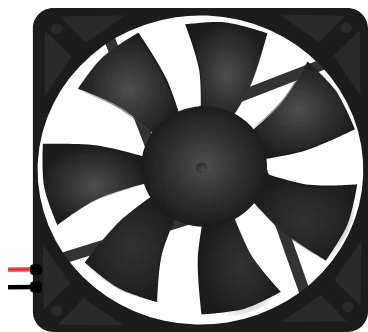
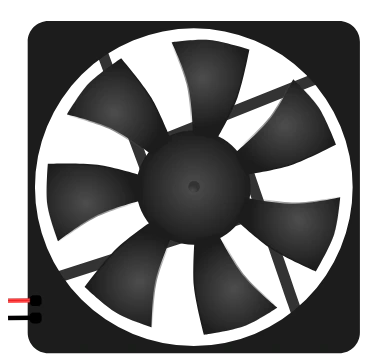
v2026.7.231 : le ventilateur tourne enfin rond
- nouveau dessin de Frank (230x220), broches + et - recalees
- l'animation CSS ecrasait le transform propre du groupe des pales
  (40 px de saut au demarrage) : elle passe sur une enveloppe neutre
- rotation autour du moyeu, axe mesure comme centre du plus petit
  cercle contenant les contours (0,3 px des cercles du moyeu)

diff --git a/todo.md b/todo.md
@@ -1,9 +1,13 @@
 # À faire
-1. Mon ventilo ne tournait pas rond. Je l'ai retouché. §Corrige à partir du nouveau. ~~Mets à jour les tests pour ajouter d'une part un transistor PN2222 et d'autre part un relais omron.~~ (fait en v2026.7.230)
 1. Je veux que les condensateurs apparaissent dans la bibliothèque uniquement comme 1 condensateur avec le choix entre les 3 dans les propriétés (ça marche déjà) mais on n'en garde qu'un dans la bibliothèque. Le texte du condensateur film  doit être plus bas. La taille du texte dopit s'adapter pour les 3 en fonctions de la valeur. Le plus (croix) du tantal est trop gros et il doit être plus bas pré de la patte de droite. Tu a enlevé les dégradés des pattes des 2 condo polarisés résutat on ne les vois pas sur la grille. L'exponentielle de charge est discontinue (test sur ton exemple avec 10 µF). Dans ton example tu présuppose RPullup = 40k alors que la doc dis entre 50 et 80 k donc met 65k. Fait aussi unexemple en décharge.
 1. 
 # En réserve
 1. ⏳ Moteur de simulation dans un **Web Worker** (rendu et calcul sur deux fils). Chiffré : ~3 lots. Points durs relevés : `sampleSevenSegLatches` tourne sur chaque front GPIO et devrait déménager dans le worker ; états partagés par référence (`pressed` du clavier, capteurs ultrason) à convertir en messages ; pas de `SharedArrayBuffer` (webview non *cross-origin isolated*) donc lecture par instantané de broches ; CSP à ouvrir (`worker-src`). **Rendement chiffré : +7 % seulement** (v2026.7.223 — le moteur détient déjà 92 % du fil, le rendu 1 % et le navigateur 7 %). À ne rouvrir que si le rendu redevient gourmand sur un schéma chargé.
+
+# v2026.7.231 — le ventilateur tourne enfin rond
+1. ✅ **Nouveau dessin de Frank repris** (`Composants.svg` → `externe/ventilo.svg`, viewBox 230×220) : broches `+` et `−` recalées sur les pastilles (10,180) et (10,190), illustration de la fiche d'aide recapturée.
+2. ✅ **L'hélice sautait au démarrage** : le groupe `ventilo-helices` porte SON PROPRE `transform` (mise à l'échelle Inkscape, `matrix(0.949…)`), et en SVG l'attribut `transform` et la propriété CSS `transform` sont **la même chose** — l'animation écrasait donc la mise en place du dessin. Mesuré en headless : dès `rotate(0deg)`, les pales bondissaient de **40 px** et changeaient de taille. L'animation est maintenant portée par un **groupe d'enveloppe neutre**, inséré au premier rendu ; le dessin de Frank n'est plus touché.
+3. ✅ **Rotation autour du MOYEU, plus du centre de la boîte** : avec 5 pales, la boîte des pales est dissymétrique — son centre tombe **4,8 px au-dessus** de l'axe réel, d'où le balourd. L'axe est mesuré à l'exécution : les bouts de pale étant tous à la même distance de l'axe, on cherche le **centre du plus petit cercle contenant les contours** (déplacement vers le point le plus lointain, pas décroissant). Trouvé (117,47 ; 114,35) contre (117,2…117,6 ; 114,1…114,6) pour les cercles du moyeu — **0,3 px d'écart**. Mesure faite une seule fois pour tous les ventilateurs, sans coordonnée codée en dur : un dessin retouché se recale tout seul.
 
 # v2026.7.230 — transistors (PN2222A + prototypes NPN/PNP) et relais OMRON G5V : les interrupteurs commandés arrivent
 1. ℹ **Nouvelle règle : les boîtiers partagés** (CLAUDE.md). Un boîtier (`to92`) est un **dessin**, pas un composant : il sert à des dizaines de références. L'élément l'habille — Frank dit quoi écrire dessus, donne le schéma interne et les paramètres de simulation. Ajouter un boîtier = une entrée dans `PACKAGES` (`transistor-element.mts`), pas un nouvel élément. Deuxième règle ajoutée : **fiche d'aide FR + EN obligatoire** pour tout nouveau composant, illustration comprise (`scripts/_capture-part.mjs`).
